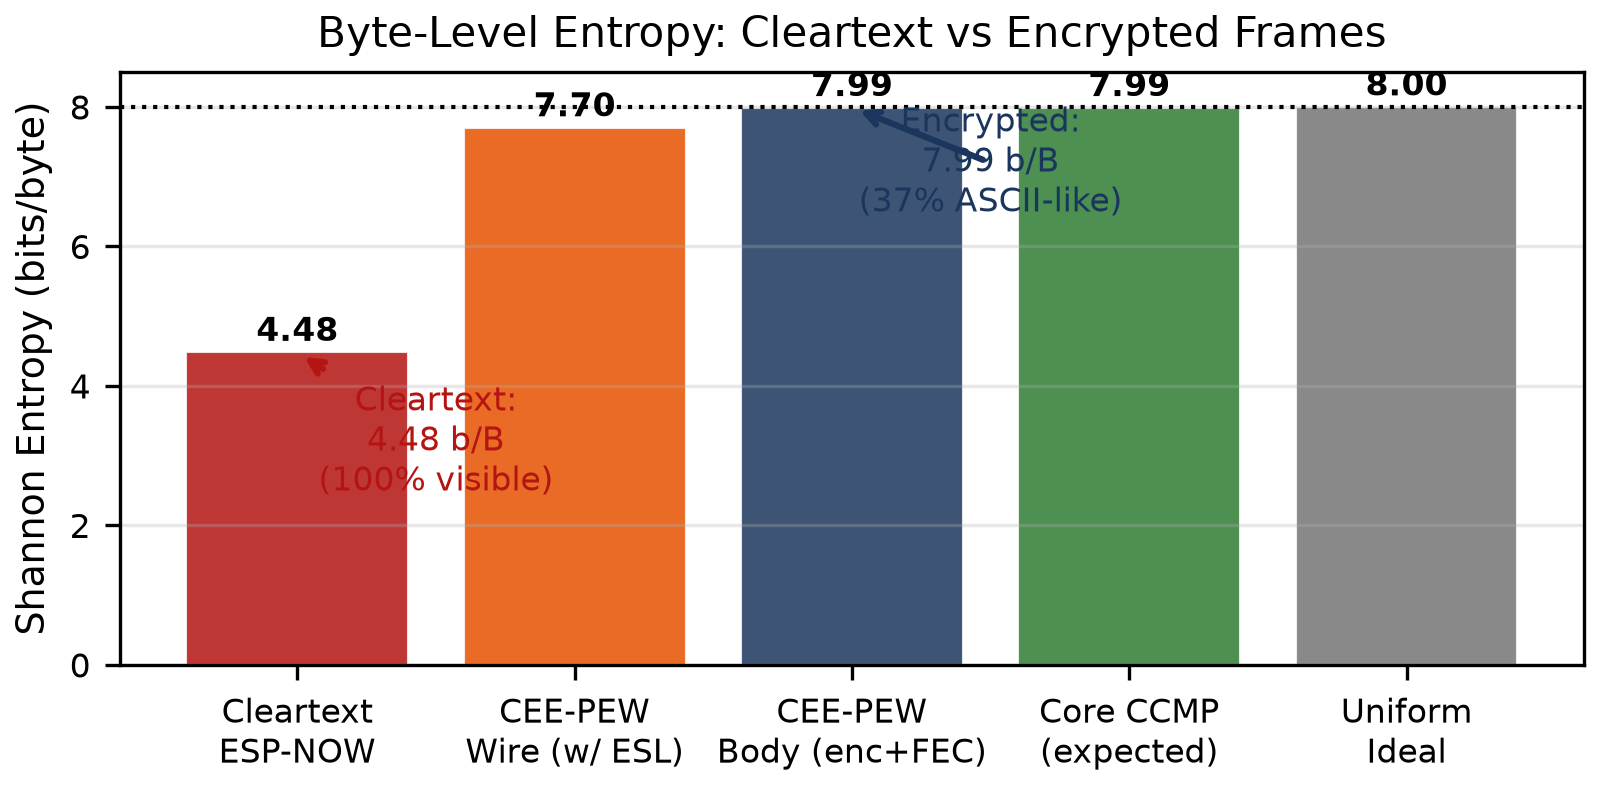
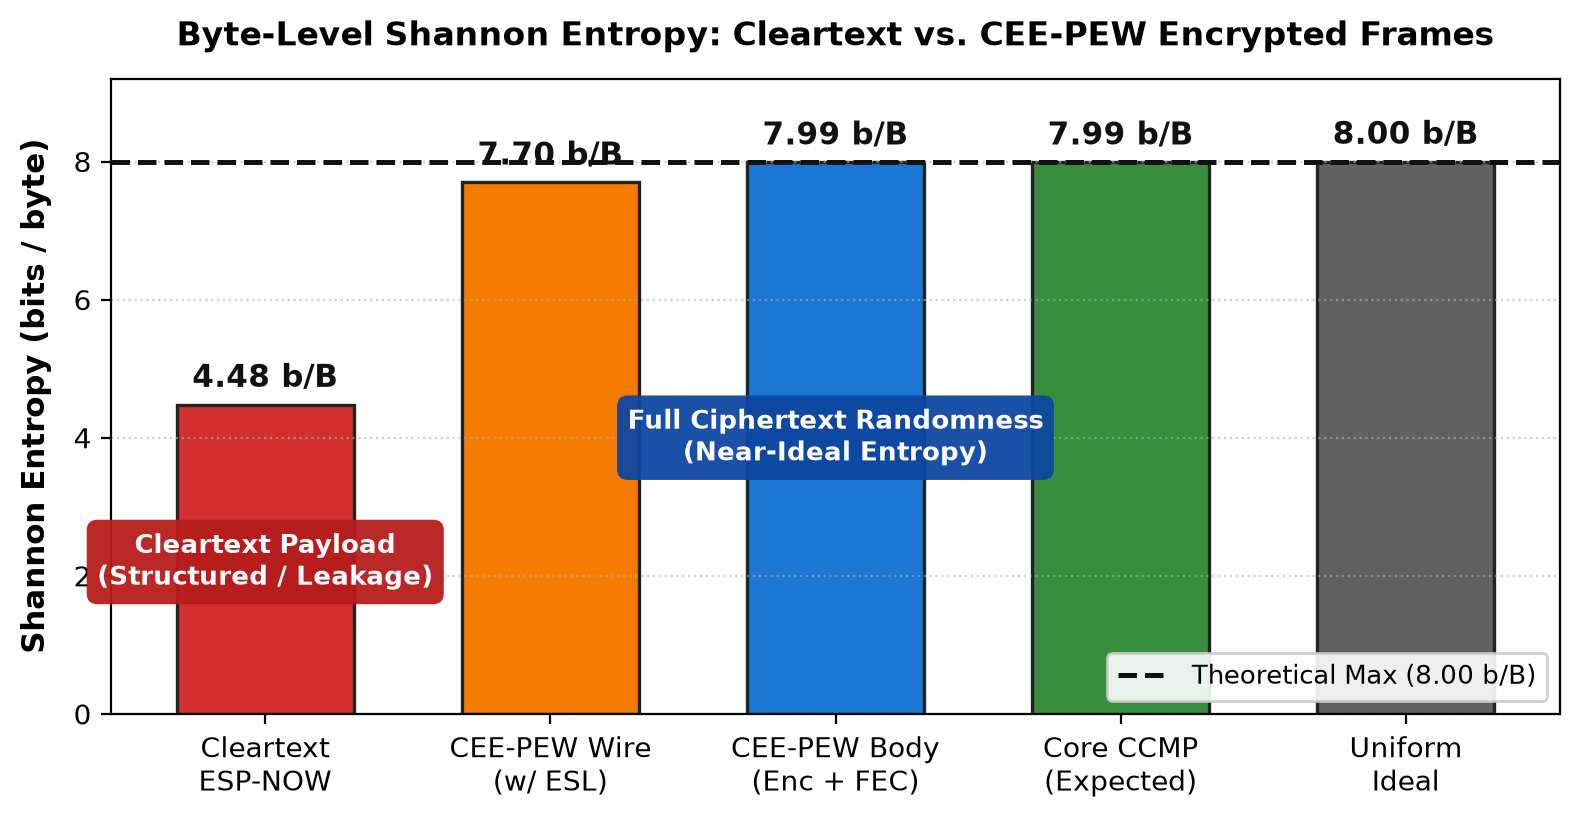
docs: improve figure legibility, fix benchmark asset tracking, and simplify documentation language

diff --git a/components/ceepew_hal/ui_manager.c b/components/ceepew_hal/ui_manager.c
@@ -2003,8 +2003,12 @@ static CeePewErr_t render_peer_select_blacklist_dialog(void)
     bool y_selected = !g_ui_ctx.peer_select_blacklist_confirm; /* 0=Yes, 1=No */
     uint8_t opt_y = y_selected ? 0U : 1U;
 
-    draw_selected_option_row(16U, 36U, 48U, 16U, "YES", (opt_y == 0U));
-    draw_selected_option_row(64U, 36U, 48U, 16U, "NO",  (opt_y == 1U));
+    /* Prompt "Blacklist this peer?" (20 glyphs = 120px, columns 4..122) inks
+     * rows 30..36. The option boxes start at row 38 so the prompt band and
+     * both box borders (rows 38 and 53) never share a row, and the hint
+     * "BTN=confirm" (rows 56..62) stays clear of the boxes. */
+    draw_selected_option_row(16U, 38U, 48U, 16U, "YES", (opt_y == 0U));
+    draw_selected_option_row(64U, 38U, 48U, 16U, "NO",  (opt_y == 1U));
 
     hal_ui_text(4U, 56U, "BTN=confirm", HAL_UI_WHITE);
 
@@ -2507,21 +2511,27 @@ static void render_new_msg_banner(uint8_t x, uint8_t y)
     if (g_ui_ctx.new_msg_count == 0U) { return; }
     char banner[16U];
     /* Dynamic unread count display: shows actual count up to 99, then "99+" for overflow.
-     * Banner width auto-adjusts: "[!1]" = 24px, "[!99]" = 36px, "[!99+]" = 42px.
-     * Glyph width = 6px, +2px padding for clean rendering. */
+     * Banner geometry is derived from the string, never clipped:
+     * "[!1]" = 4 glyphs = 26px, "[!21]" = 5 glyphs = 32px, "[!99+]" = 7 = 44px.
+     * Text is drawn at bx+1 and inks len*6-1 px, so bg width len*6+2 always
+     * contains it (2px right padding). */
     if (g_ui_ctx.new_msg_count > 99U) {
         (void)snprintf(banner, sizeof(banner), "[!99+]");
     } else {
         (void)snprintf(banner, sizeof(banner), "[!%u]", (unsigned)g_ui_ctx.new_msg_count);
     }
     uint8_t len = (uint8_t)strlen(banner);
-    /* Clamp to display bounds: banner may be 4-7 glyphs (24-44px),
-     * and callers may pass x=90-100, so clamp width to prevent overflow. */
     uint8_t w = (uint8_t)(len * 6U + 2U);
-    if ((uint16_t)x + w > HAL_UI_WIDTH_PX) { w = (uint8_t)(HAL_UI_WIDTH_PX - x); }
-    HalUIRect_t bg = { .x = x, .y = y, .w = w, .h = 9U };
+    /* Right-align from the string length so bg and text always fit:
+     * 4 glyphs -> bx=102, 5 glyphs -> bx=96, both ending at column 127.
+     * The caller's x is the outer right boundary (100 today); it may pull
+     * the banner further left but can never squeeze its background. */
+    uint8_t bx = ((uint16_t)w < (uint16_t)HAL_UI_WIDTH_PX)
+               ? (uint8_t)(HAL_UI_WIDTH_PX - w) : 0U;
+    if (bx > x) { bx = x; }
+    HalUIRect_t bg = { .x = bx, .y = y, .w = w, .h = 9U };
     hal_ui_rect_fill(&bg, HAL_UI_WHITE);
-    hal_ui_text((uint8_t)(x + 1U), (uint8_t)(y + 1U), banner, HAL_UI_BLACK);
+    hal_ui_text((uint8_t)(bx + 1U), (uint8_t)(y + 1U), banner, HAL_UI_BLACK);
 }
 
 static CeePewErr_t render_chat_thread(void)
@@ -2622,7 +2632,11 @@ static CeePewErr_t render_chat_thread(void)
     }
 
     /* Tactical status bar: live ESP-NOW hop channel + last-seen link RSSI.
-     * RSSI is refreshed on every received frame (g_ui_ctx.rssi_dbm). */
+     * RSSI is refreshed on every received frame (g_ui_ctx.rssi_dbm).
+     * The footer never takes the banner shift: its glyph band is rows 54..60
+     * in both modes so it is always fully on-screen. In degraded mode the
+     * shortened list ends at row 46 (bubbles at y=22 and y=36, h=11) and the
+     * scrollbar track ends at row 53, leaving rows 54..60 clear. */
     {
         char status_str[14U];
         uint8_t ch = (g_ui_ctx.current_channel != 0U) ? g_ui_ctx.current_channel : 1U;
@@ -2631,9 +2645,9 @@ static CeePewErr_t render_chat_thread(void)
         } else {
             (void)snprintf(status_str, sizeof(status_str), "CH%u %ddBm", (unsigned)ch, (int)g_ui_ctx.rssi_dbm);
         }
-        hal_ui_text(0U, (uint8_t)(54U + banner_shift), status_str, HAL_UI_WHITE);
+        hal_ui_text(0U, 54U, status_str, HAL_UI_WHITE);
     }
-    hal_ui_text(80U, (uint8_t)(54U + banner_shift), "BTN=menu", HAL_UI_WHITE);
+    hal_ui_text(80U, 54U, "BTN=menu", HAL_UI_WHITE);
 
     return CEEPEW_OK;
 }
@@ -2660,7 +2674,12 @@ static CeePewErr_t render_chat_detail(void)
      * unread badge and per-bubble unread dots update on the next frame. */
     (void)msg_store_mark_read(g_ui_ctx.chat_selected_idx);
 
-    ui_draw_centered_text(1U, "MESSAGE DETAIL");
+    /* Header: left-anchored at x=4 so the title can never reach the
+     * new-message banner. "MESSAGE DETAIL" = 14 glyphs, ink columns 4..86
+     * (rows 1..7). The banner background is right-aligned and starts at
+     * column 100 for a 4-glyph count, column 96 for a 5-glyph count
+     * ("[!21]"), so columns 87..95 stay clear in rows 1..9. */
+    hal_ui_text(4U, 1U, "MESSAGE DETAIL", HAL_UI_WHITE);
     draw_hline(0U, 11U, 128U);
 
     char type_str[32U];
@@ -2956,8 +2975,12 @@ static CeePewErr_t render_chat_menu(void)
     }
     uint8_t sel = g_ui_ctx.chat_menu_selected;
 
+    /* Degraded mode compacts the option stack into the band between the
+     * shifted rule (row 19) and the footer (rows 54..60): boxes occupy rows
+     * 21..34 and 38..51, so the footer band is never touched. Normal mode
+     * keeps the 20px pitch (rows 18..31 and 38..51). */
     for (uint8_t i = 0U; i < 2U; i++) {
-        uint8_t y = (uint8_t)((uint8_t)(18U + banner_shift) + i * 20U);
+        uint8_t y = degraded ? (uint8_t)(21U + i * 17U) : (uint8_t)(18U + i * 20U);
         draw_selected_option_row(8U, y, 112U, 14U, OPTS[i], (i == sel));
     }
 
@@ -2972,11 +2995,21 @@ static CeePewErr_t render_chat_menu(void)
         } else {
             (void)snprintf(badge, sizeof(badge), "[%u msgs]", (unsigned)cnt);
         }
-        hal_ui_text(4U, (uint8_t)(54U + banner_shift), badge, HAL_UI_WHITE);
+        hal_ui_text(4U, 54U, badge, HAL_UI_WHITE);
     }
 
-    hal_ui_text(66U, (uint8_t)(54U + banner_shift), "BTN=select", HAL_UI_WHITE);
-    render_new_msg_banner(100U, 1U);
+    /* Footer fixed at y=54 (rows 54..60) so it is fully visible in both modes;
+     * degraded option row 2 ends at row 51, leaving rows 52..53 clear. */
+    hal_ui_text(66U, 54U, "BTN=select", HAL_UI_WHITE);
+
+    /* Unread banner in normal mode only: the degraded warning
+     * "! UNVERIFIED ID !" inks columns 13..113 in rows 0..6, which a
+     * right-aligned banner (columns 96..127, rows 1..9) would partially
+     * erase. Degraded users still see the live unread count as the "U<n>"
+     * badge on the CHAT screen. */
+    if (!degraded) {
+        render_new_msg_banner(100U, 1U);
+    }
 
     g_ui_ctx.anim.frame_count++;
     return CEEPEW_OK;
@@ -3023,16 +3056,28 @@ static CeePewErr_t render_chat_compose(void)
         hal_ui_text(text_x, 18U, sel_label, HAL_UI_WHITE);
     }
 
-    /* Neighbour hints around current selection (flat, no category wrapping) */
+    /* Neighbour hints anchored to the selection box (columns box_x..box_x+box_w-1)
+     * so they can never land on its border or inside it: 6px clearance per side.
+     * Measured over all 66 choices (box_w is only ever 18/22/28/34): the
+     * leftmost previous hint is "DEL" at x=29 (next to "<-", box_x=53) ending
+     * at column 45, and the rightmost next hint is "SEND" at x=81 ending at
+     * column 103. Either hint is skipped if it cannot fit on the 128px panel. */
     if (choice_idx > 0U) {
         char prev_buf[4U];
         const char *prev = compose_choice_label((uint8_t)(choice_idx - 1U), prev_buf);
-        hal_ui_text(38U, 18U, prev, HAL_UI_WHITE);
+        uint8_t prev_px = (uint8_t)(strlen(prev) * 6U);
+        if ((uint16_t)prev_px + 6U <= (uint16_t)box_x) {
+            hal_ui_text((uint8_t)(box_x - 6U - prev_px), 18U, prev, HAL_UI_WHITE);
+        }
     }
     if (choice_idx + 1U < COMPOSE_TOTAL_CHOICES) {
         char next_buf[4U];
         const char *next = compose_choice_label((uint8_t)(choice_idx + 1U), next_buf);
-        hal_ui_text(76U, 18U, next, HAL_UI_WHITE);
+        uint8_t next_px = (uint8_t)(strlen(next) * 6U);
+        uint16_t next_x = (uint16_t)box_x + (uint16_t)box_w + 6U;
+        if (next_x + (uint16_t)next_px <= (uint16_t)HAL_UI_WIDTH_PX) {
+            hal_ui_text((uint8_t)next_x, 18U, next, HAL_UI_WHITE);
+        }
     }
 
     /* ── Message preview with cursor ─────────────────────────────── */
@@ -3057,7 +3102,12 @@ static CeePewErr_t render_chat_send_confirm(void)
     }
     compose_terminate_buffer();
 
-    ui_draw_centered_text(1U, "SEND MESSAGE");
+    /* Header left-anchored like MESSAGE DETAIL: "SEND MESSAGE" centred would
+     * ink columns 28..98, and the right-aligned new-message banner starts at
+     * column 96 once the unread count reaches 10, so the banner would cover
+     * the final glyph. At x=4 the title inks 4..75 and the header row stays
+     * readable with the banner present. */
+    hal_ui_text(4U, 1U, "SEND MESSAGE", HAL_UI_WHITE);
     draw_hline(0U, 11U, 128U);
     hal_ui_text(4U, 14U, "send message:", HAL_UI_WHITE);
 
@@ -4358,7 +4408,9 @@ static CeePewErr_t render_error(void)
     uint32_t elapsed_ms = (now_ms >= start_ms) ? (now_ms - start_ms) : 0U;
     uint8_t blink_phase = (uint8_t)((elapsed_ms / CEEPEW_RGB_ERROR_BLINK_MS) % 2U);
     if (blink_phase == 0U) {
-        HalUIRect_t blink_box = {.x = 56U, .y = 52U, .w = 16U, .h = 4U};
+        /* Bar sits below the hint text (rows 46..52): bar rows 56..59 leave
+         * rows 53..55 clear, and the bar stays inside the 64-row panel. */
+        HalUIRect_t blink_box = {.x = 56U, .y = 56U, .w = 16U, .h = 4U};
         hal_ui_rect_fill(&blink_box, HAL_UI_WHITE);
     }
 

diff --git a/README.md b/README.md
@@ -47,7 +47,7 @@ ESP32-based secure messaging with a 7-layer cryptographic stack, pairing via BLE
 
 ## Testing Methodologies & Reproduction Guide
 
-CEE-PEW enforces a multi-tier testing and verification framework. Anyone checking out this repository can independently reproduce, test, and audit every claim in the paper.
+CEE-PEW enforces a multi-tier testing and verification framework. Anyone can independently reproduce, test, and audit all cryptographic primitives, wire budgets, and system metrics.
 
 ### 1. Host-Side C Unit Tests & Sanitizers (Zero Hardware Required)
 Run the native host test suite with GCC/Clang AddressSanitizer and UndefinedBehaviorSanitizer:
@@ -56,8 +56,8 @@ python tools/ceepew_pipeline.py --mode host
 ```
 *Verifies: 15/15 test suites (Ascon-128 KAT, Ed25519, HKDF-SHA256, static Huffman, Hamming(15,11) FEC single-bit correction and double-bit non-crashing bounds, 64-bit replay sliding window, replay vectors, PFS auth, UI navigator, and side-channel timing uniformity).*
 
-### 2. Paper Arithmetic & Claim Verification
-Recompute all 45 formulas, wire budgets, airtimes, cycle-to-time conversions, and bounds reported in the paper:
+### 2. Protocol Arithmetic & Metric Verification
+Recompute all 45 formulas, wire budgets, airtimes, cycle-to-time conversions, and bounds:
 ```powershell
 python tools/recompute_paper_numbers.py
 ```
@@ -102,7 +102,7 @@ python tools/ceepew_pipeline.py --mode prod
 
 ## Empirical Results & Testing Data
 
-All quantitative claims and experimental datasets used in the paper are published and tracked in this repository:
+All quantitative metrics, benchmarks, and experimental datasets are published and tracked in this repository:
 - **Canonical Results Registry**: [`results/registry.json`](results/registry.json) (every number tagged with an Evidence Class: `M-HW`, `M-HOST`, `C`, `S`, or `E`).
 - **Results Documentation**: [`results/README.md`](results/README.md) (complete results ledger and analysis).
 - **Experimental Datasets**: [`data/`](data/) (raw PCAPs, serial logs, SHA-256 manifests, and derived CSVs).
@@ -120,8 +120,6 @@ All quantitative claims and experimental datasets used in the paper are publishe
 | **Ed25519 Verify Duration (RX)**| **662.7 ms** median ($n=99$) | Full verification path | `M-HW` | [`data/derived/bench58_today_stages.csv`](data/derived/bench58_today_stages.csv#L5) |
 | **Replay Rejection (Sliding Window)** | **100 / 100** vectors rejected | 95% CI failure bound: 3.0% | `M-HOST` | [`tests/host/test_replay_vectors.c`](tests/host/test_replay_vectors.c) + [`data/derived/host_ci_20261019_replay_vectors/`](data/derived/host_ci_20261019_replay_vectors/) |
 | **OTA Forged Frame Rejection** | **16 / 16** rejected per Mode-C run (n=32 across E1-C + E2b) | Ascon tag auth error (err=5) | `M-HW` | [`data/raw/E1_C_ceepew_20261018/`](data/raw/E1_C_ceepew_20261018/), [`data/raw/E2b_forged_rejection_20261018/`](data/raw/E2b_forged_rejection_20261018/) |
-
-**Note:** The "10/10" figure cited in earlier drafts is unsupported by its own artifact (`E1_B_ccmp_20261017` contains 4 forged TX / 4 box rejects in Mode B, which bypasses the full authenticator). The authoritative measurement is 16/16 per Mode-C run, n=32.
 | **Cleartext Air Leakage** | **0 bytes** visible in Mode C | Mode A: 100% payload visible | `M-HW` | [`data/derived/E1_A_plain_20261017/`](data/derived/E1_A_plain_20261017/) |
 | **Application Heap Allocations** | **0 bytes** (48 KB static region) | Standard heap allocators | `M-HW` | [`components/mem/ceepew_region.h`](components/mem/ceepew_region.h) |
 
@@ -135,7 +133,7 @@ Live promiscuous 802.11 ESP-NOW capture decoded with the custom CEE-PEW Wireshar
 </p>
 
 #### 2. On-Device Cryptographic Benchmarks
-Measured execution durations (median, $N \ge 50$ runs) across cryptographic and error-correction pipeline stages on physical ESP32 hardware running at 240 MHz:
+Measured execution durations (median, $N \ge 50$ runs) across cryptographic and error-correction pipeline stages on physical ESP32 hardware running at 160 MHz:
 
 <p align="center">
   <img src="assets/benchmarks.png" alt="On-Device Crypto Benchmarks on ESP32" width="800">
@@ -208,7 +206,7 @@ CEEPEW/
 │   ├── raw/                 Read-only PCAPs, logs, and sealed SHA-256 manifests
 │   ├── derived/             Stage timing benchmarks (CSV), tshark dissections
 │   └── manifests/           Master run roll-up index (index.json)
-├── results/                 Canonical paper results registry & single source of truth
+├── results/                 Canonical benchmark results registry & single source of truth
 │   ├── registry.json        Master JSON ledger of all quantitative claims and evidence
 │   └── README.md            Documentation of evidence classes and replication instructions
 ├── main/                    Application entry, FreeRTOS tasks, session FSM
@@ -234,7 +232,7 @@ CEEPEW/
 │   └── components/         Component self-tests
 ├── tools/                   Development, capture, diagnostic, and monitoring tools
 │   ├── ceepew_pipeline.py   Master automated test runner (--mode host/diag/pairing/prod)
-│   ├── recompute_paper_numbers.py  Automated paper arithmetic and claim checker
+│   ├── recompute_paper_numbers.py  Automated wire budget, airtime, and efficiency checker
 │   ├── ceepew_monitor.py   Unified colorized serial monitor (single/dual port)
 │   ├── ceepew_log_pipeline.py      Post-test log ingestion and signature detector
 │   ├── ceepew_diagnose.ps1 Unified PowerShell test driver
